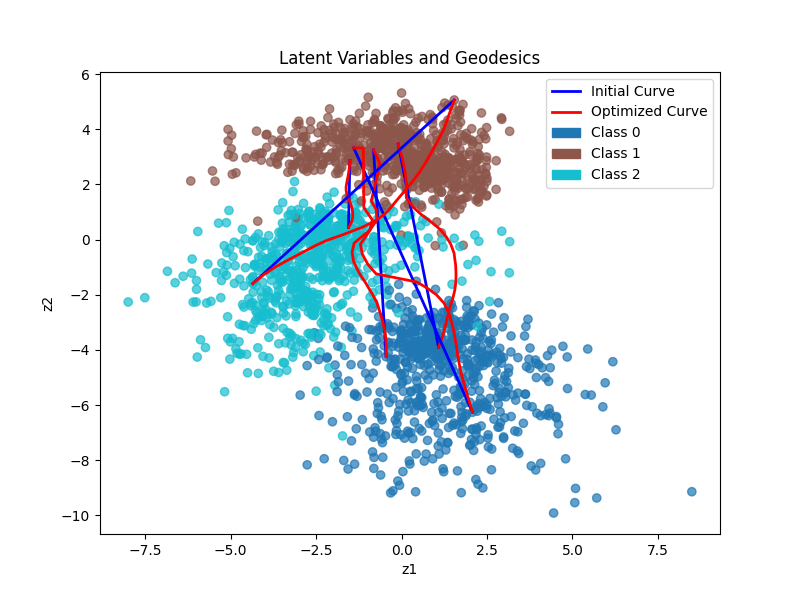
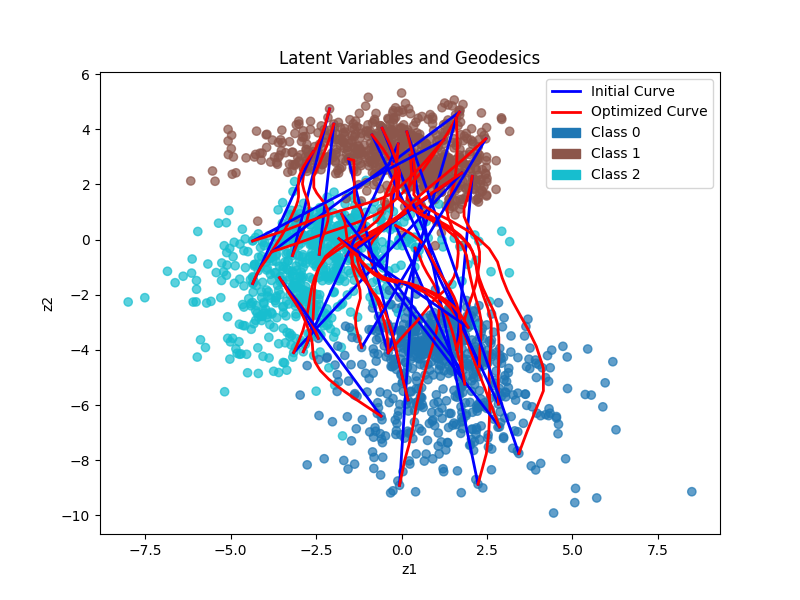
Computing geodesics

Changed region(s): [[0.3125, 0.18, 0.6875, 0.81]]

diff --git a/src/ensemble_vae.py b/src/ensemble_vae.py
@@ -631,7 +631,7 @@ if __name__ == "__main__":
         all_latents = torch.cat(all_latents, dim=0).cpu()
 
         # Choose 25 random pairs from encoded latent codes
-        num_pairs = 5
+        num_pairs = 25
         indices = torch.randperm(all_latents.shape[0])[:2*num_pairs].reshape(num_pairs, 2)
         geodesics = []
         latent_pairs = []
